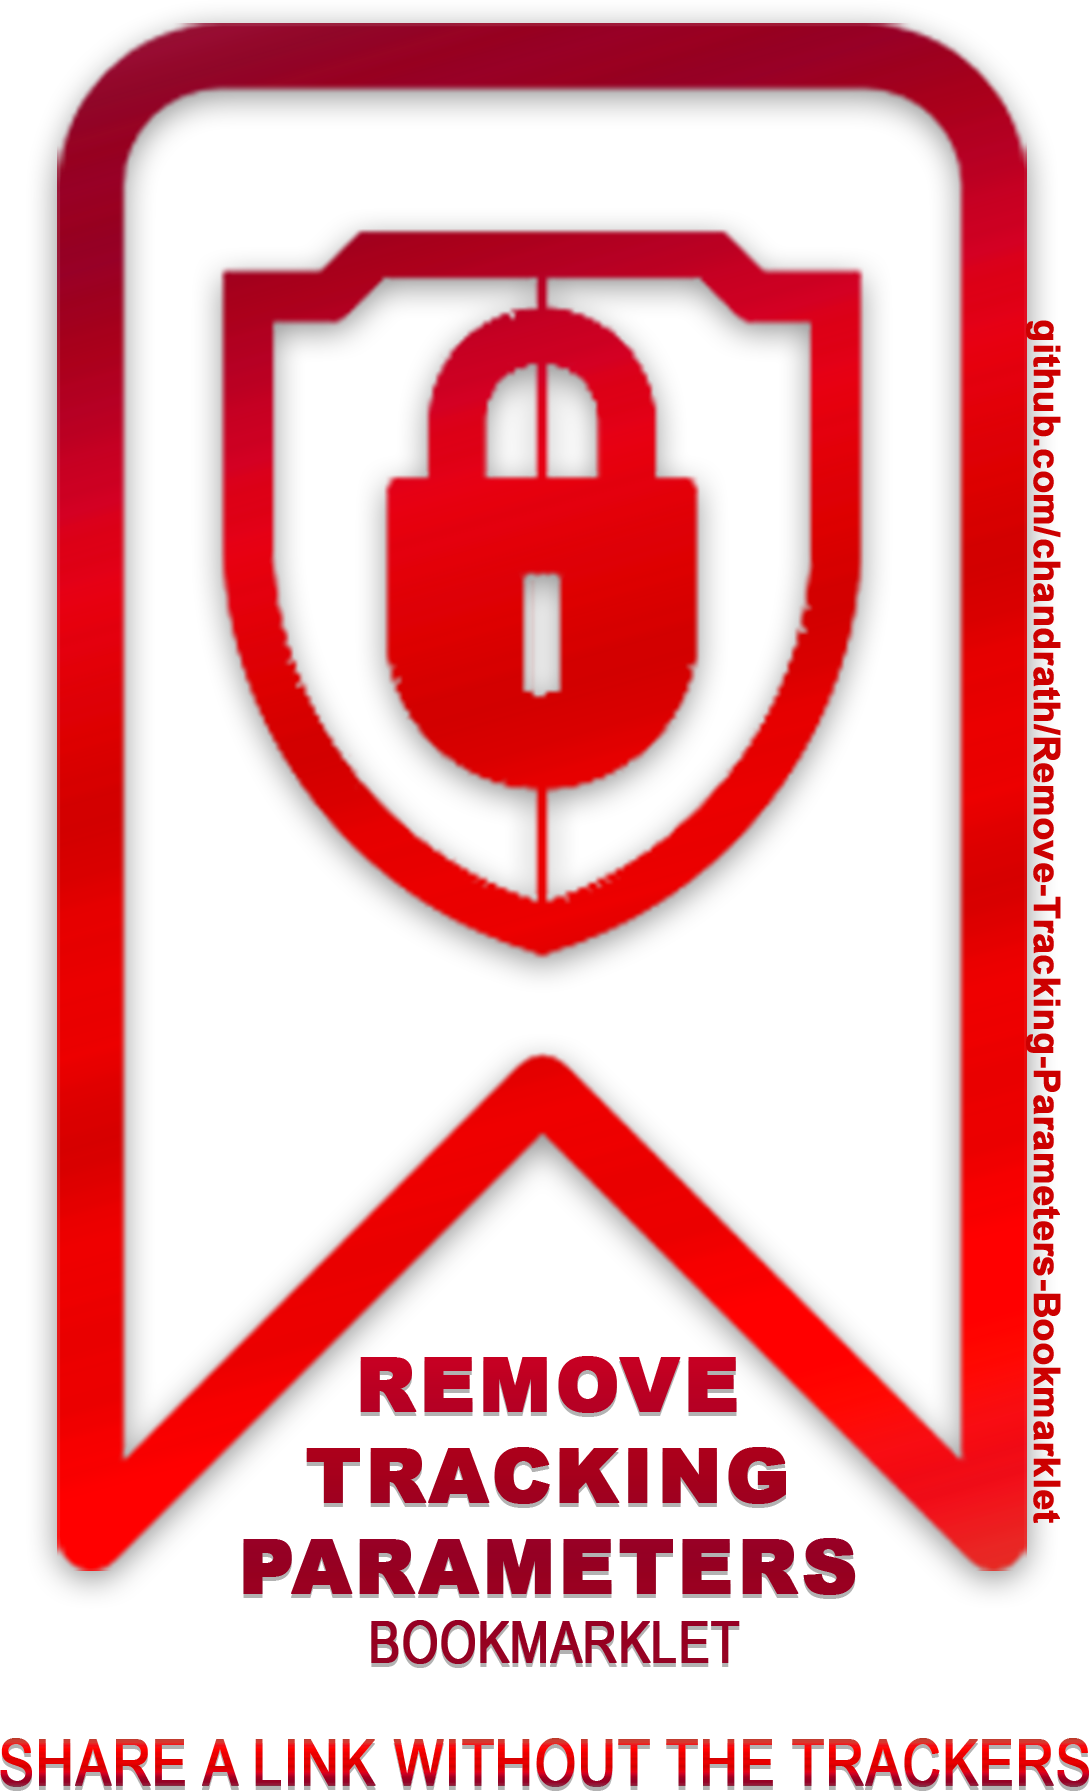
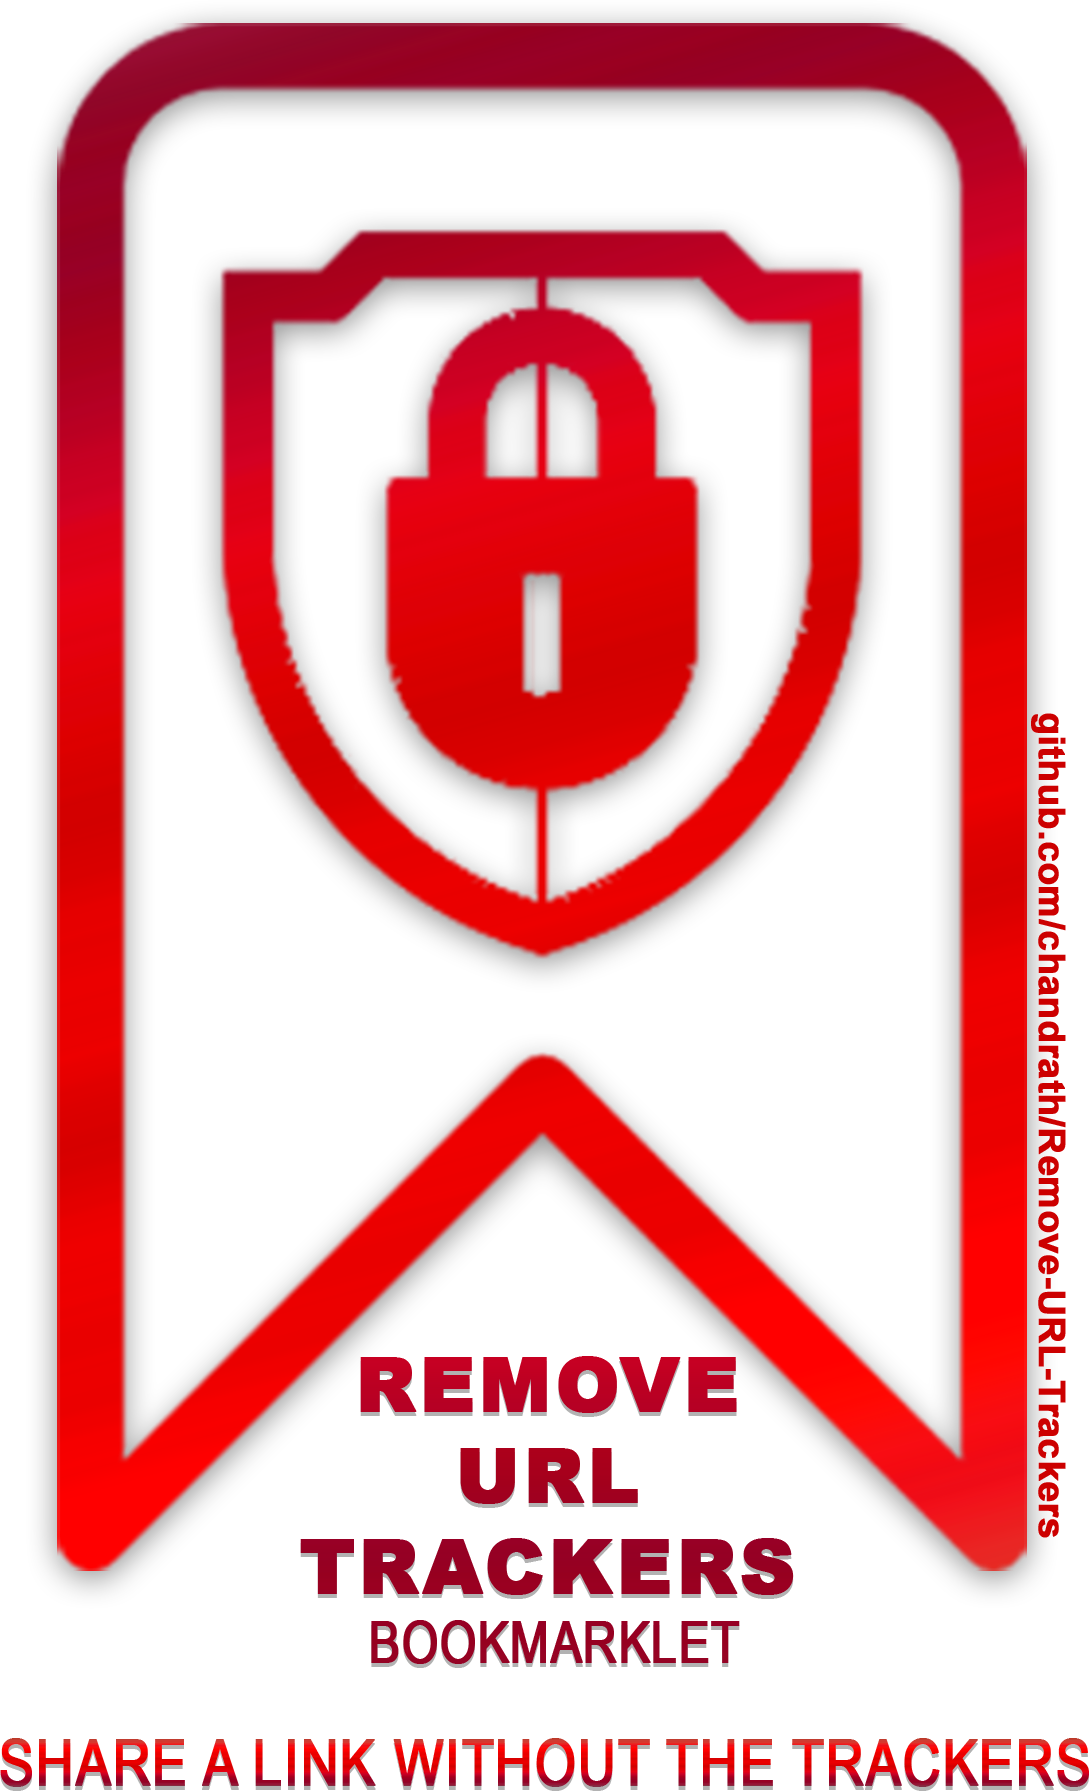
.

Changed region(s): [[0.2185, 0.7984, 0.7805, 0.8906], [0.9366, 0.1535, 0.9991, 0.8599]]

diff --git a/docs/index.html b/docs/index.html
@@ -3,7 +3,7 @@
   <head>
     <meta charset="UTF-8">
     <meta name="viewport" content="width=device-width, initial-scale=1.0">
-    <title>Remove Tracking Parameters Bookmarklet</title>
+    <title>Remove URL Trackers</title>
     <style>
       body {
         font-family: sans-serif;
